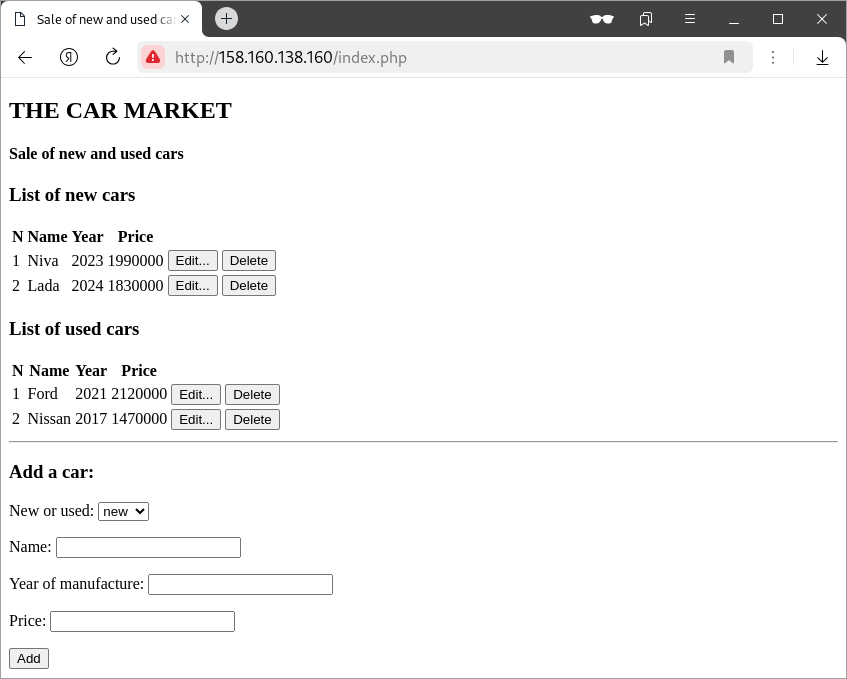
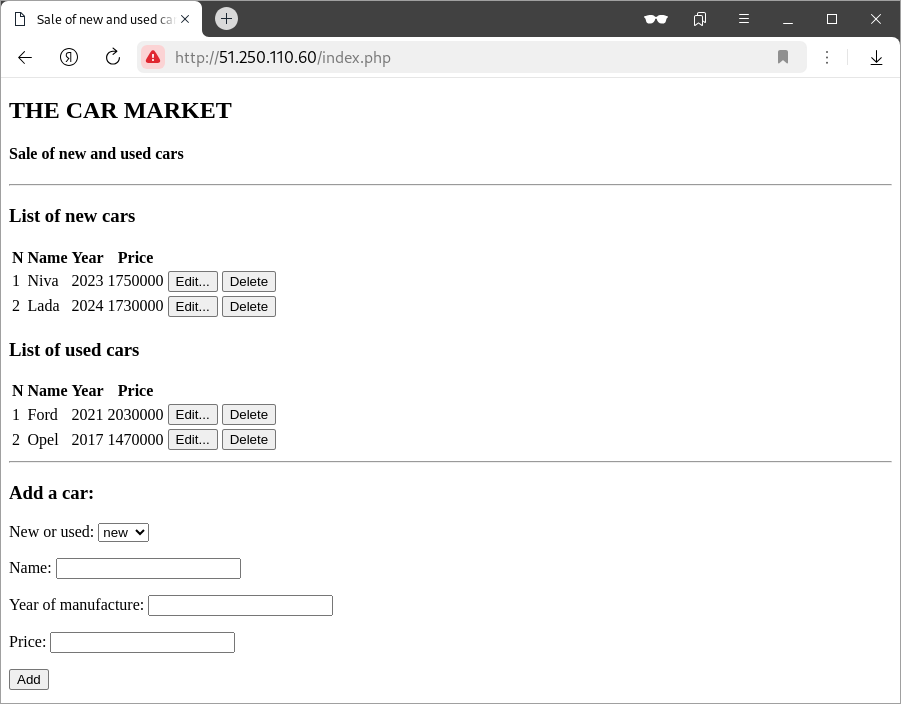
edit README.md and grafana.yml, change screens

diff --git a/README.md b/README.md
@@ -93,39 +93,71 @@ Outputs:
 bes-info = {
   "be-01" = {
     "ip_address" = tolist([
-      "10.10.10.7",
-    ])
-    "nat_ip_address" = tolist([
-      "",
+      "10.10.10.29",
     ])
   }
   "be-02" = {
     "ip_address" = tolist([
-      "10.10.10.5",
-    ])
-    "nat_ip_address" = tolist([
-      "",
+      "10.10.10.6",
     ])
   }
 }
 cephs-info = {
   "ceph-01" = {
     "ip_address" = tolist([
-      "10.10.10.8",
-    ])
-    "nat_ip_address" = tolist([
-      "",
+      "10.10.10.13",
     ])
   }
   "ceph-02" = {
     "ip_address" = tolist([
-      "10.10.10.30",
-    ])
-    "nat_ip_address" = tolist([
-      "",
+      "10.10.10.5",
     ])
   }
   "ceph-03" = {
+    "ip_address" = tolist([
+      "10.10.10.45",
+    ])
+  }
+}
+consuls-info = {
+  "consul-01" = {
+    "ip_address" = tolist([
+      "10.10.10.26",
+    ])
+  }
+  "consul-02" = {
+    "ip_address" = tolist([
+      "10.10.10.28",
+    ])
+  }
+  "consul-03" = {
+    "ip_address" = tolist([
+      "10.10.10.15",
+    ])
+  }
+}
+dbs-info = {
+  "db-01" = {
+    "ip_address" = tolist([
+      "10.10.10.37",
+    ])
+  }
+  "db-02" = {
+    "ip_address" = tolist([
+      "10.10.10.11",
+    ])
+  }
+}
+lbs-info = {
+  "lb-01" = {
+    "ip_address" = tolist([
+      "10.10.10.35",
+    ])
+    "nat_ip_address" = tolist([
+      "84.252.140.234",
+    ])
+  }
+  "lb-02" = {
     "ip_address" = tolist([
       "10.10.10.3",
     ])
@@ -134,73 +166,20 @@ cephs-info = {
     ])
   }
 }
-consuls-info = {
-  "consul-01" = {
-    "ip_address" = tolist([
-      "10.10.10.23",
-    ])
-    "nat_ip_address" = tolist([
-      "",
-    ])
-  }
-  "consul-02" = {
-    "ip_address" = tolist([
-      "10.10.10.38",
-    ])
-    "nat_ip_address" = tolist([
-      "",
-    ])
-  }
-  "consul-03" = {
-    "ip_address" = tolist([
-      "10.10.10.24",
-    ])
-    "nat_ip_address" = tolist([
-      "",
-    ])
-  }
-}
-dbs-info = {
-  "db-01" = {
-    "ip_address" = tolist([
-      "10.10.10.26",
-    ])
-    "nat_ip_address" = tolist([
-      "",
-    ])
-  }
-  "db-02" = {
-    "ip_address" = tolist([
-      "10.10.10.32",
-    ])
-    "nat_ip_address" = tolist([
-      "",
-    ])
-  }
-}
-lbs-info = {
-  "lb-01" = {
-    "ip_address" = tolist([
-      "10.10.10.39",
-    ])
-    "nat_ip_address" = tolist([
-      "158.160.10.39",
-    ])
-  }
-  "lb-02" = {
-    "ip_address" = tolist([
-      "10.10.10.36",
-    ])
-    "nat_ip_address" = tolist([
-      "",
-    ])
-  }
-}
 loadbalancer-info = {
+  "grafana-listener" = {
+    "ip_address" = toset([
+      {
+        "address" = "51.250.110.60"
+        "ip_version" = "ipv4"
+      },
+    ])
+    "port" = 3000
+  }
   "opensearch-dashboard-listener" = {
     "ip_address" = toset([
       {
-        "address" = "158.160.138.160"
+        "address" = "51.250.110.60"
         "ip_version" = "ipv4"
       },
     ])
@@ -209,7 +188,7 @@ loadbalancer-info = {
   "web-listener" = {
     "ip_address" = toset([
       {
-        "address" = "158.160.138.160"
+        "address" = "51.250.110.60"
         "ip_version" = "ipv4"
       },
     ])
